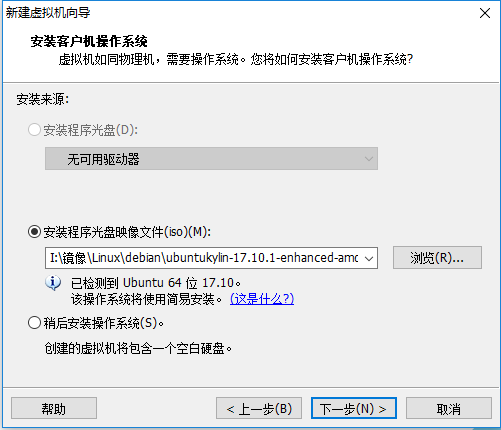
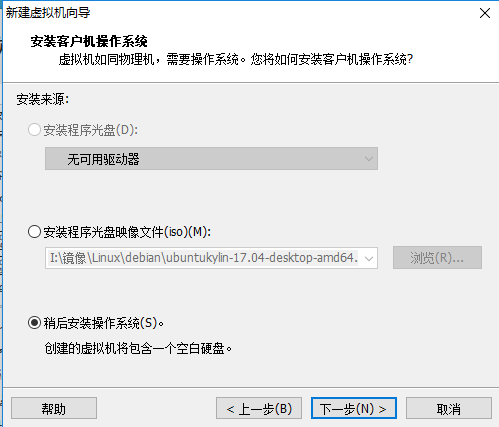
some

diff --git a/list/debian/kylin/install.md b/list/debian/kylin/install.md
@@ -6,11 +6,11 @@
 
     ![img](../public/kylin/install-2.png)
 
-1. 选择你下载的镜像，下一步。
+1. 在这里选择稍后安装操作系统，下一步。
 
     ![img](../public/kylin/install-3.png)
 
-1. 设置简易的安装信息。
+1. 选择版本，选择debian、Ubuntu都可以。
 
     ![img](../public/kylin/install-4.png)
 
@@ -18,15 +18,21 @@
 
     ![img](../public/kylin/install-5.png)
 
-1. 设置磁盘和内存大小，然后就是等待了。
+1. 打开虚拟机选择好语言，点击开始安装。
 
-    ![img](../public/kylin/install-1.png)
+    ![img](../public/kylin/install-7.png)
 
-1. 首次开机
+1. 这里视自己的情况而定。
 
-    ![img](../public/kylin/install-6.png)
+    ![img](../public/kylin/install-8.png)
 
-安装过程没有选择语言，默认是英文的，[点这里](./language.md)设置中文
+1. 选择磁盘安装，这里要注意如果你有多余的空磁盘可以直接选择第一项，进行安装，然后对磁盘进行分区。否则建议选最后一项。[磁盘分区](../../../knowledge-base/base/Disk-knowledge/Disk-Partition-list.md)在基础部分有详细的介绍，这里不再赘述。
+
+    ![img](../public/kylin/install-9.png)
+
+如果安装过程没有选择语言，默认是英文的，[点这里](./language.md)设置中文
+
+![img](../public/kylin/language-3.png)
 
 - 看这界面，既有Ubuntu的图标样式，又有window的风格。
 

diff --git a/listall.md b/listall.md
@@ -12,12 +12,12 @@
 
 1. Debian    [下载官网](https://www.debian.org/ "下载官网")
 1. Ubuntu    [下载官网](https://www.ubuntu.com/download "下载官网")
-  1. Kubuntu
-  2. Bodhi Linux
-  3. KDE Neon
+    1. Kubuntu
+    1. Bodhi Linux
+    1. KDE Neon
 1. Deepin    [下载官网](https://www.deepin.org/ "下载官网")
 1. Linux Mint    [下载官网](https://www.linuxmint.com/ "下载官网")
-  1. feren OS
+    1. feren OS
 1. Elementary OS    [下载官网](https://elementary.io/ "下载官网")
 1. Kali    [下载官网](https://www.kali.org/ "下载官网")
 1. Tails    [下载官网](https://tails.boum.org/ )
@@ -33,12 +33,12 @@
 ## 其他系列
 
 1. Arch Linux    [下载官网](https://www.archlinux.org/ )
-  1. Manjaro    [下载官网](http://manjaro.github.io/ )
-  1. Antergos
+    1. Manjaro    [下载官网](http://manjaro.github.io/ )
+    1. Antergos
 1. openSUSE    [下载官网](https://www.opensuse.org/ )
-  1. GeckoLinux  [下载官网](https://www.opensuse.org/ )
+    1. GeckoLinux  [下载官网](https://www.opensuse.org/ )
 1. Gentoo    [下载官网](https://www.gentoo.org/ )
-  1. Calculate Linux
+    1. Calculate Linux
 1. coreos    [下载官网](https://coreos.com/ )
 1. chrome os    [下载地址](http://www.getchrome.eu/download )
 1. Mandriva Linux    [下载地址](http://mandriva.linuxfreedom.com/download.html )
